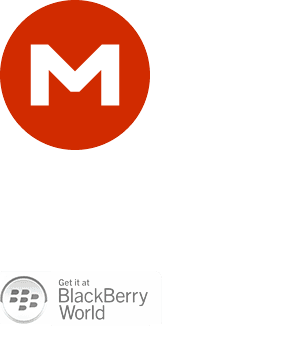
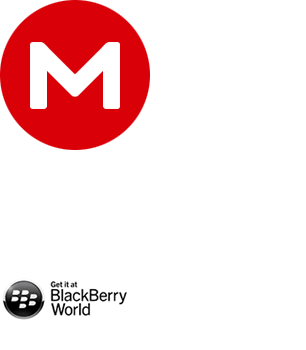
Download page fixes, WP button for mobile

Changed region(s): [[0.0, 0.0, 0.5, 0.4286], [0.0, 0.7714, 0.5, 0.9429]]

diff --git a/css/style.css b/css/style.css
@@ -15267,7 +15267,7 @@ span.browsers-update {
 }
 .m-client-bottom-block {
 	text-align: center;
-	padding: 47px 30px 42px 20px;
+	padding: 32px 30px 47px 20px;
 	line-height: 0;
 	font-size: 0;
 }
@@ -15427,7 +15427,7 @@ span.browsers-update {
 	font-size: 11px;
 	color: #666666;
 	line-height: 14px;
-	padding-top: 7px;
+	padding-top: 5px;
 }
 .blackberry-button {
 	background-position: 22px -1560px;
@@ -18695,6 +18695,16 @@ filter:progid:DXImageTransform.Microsoft.Alpha(opacity=90);
 .password-dialog .fm-dialog-body {
 	padding: 14px 20px 14px 20px;
 }
+.ads-left-block, .ads-right-block {
+	background-color: #d9d8d8;
+	height: 100%;
+	width: 300px;
+	position: absolute;
+	min-height: 620px;
+}
+.ads-right-block {
+	right: 0;
+}
 .products-left-block, .products-right-block {
 	background-color: #d9d8d8;
 	height: 100%;
@@ -18725,22 +18735,26 @@ filter:progid:DXImageTransform.Microsoft.Alpha(opacity=90);
 	line-height: 26px;
 }
 .animations-left-container, .animations-right-container {
-	left: 20px;
 	position: absolute;
 	top: 50%;
-	margin-top: -125px;
+	margin-top: -145px;
+	width: 100%;
+	text-align: center;
+}
+.animations-left-container. currentLink, .animations-right-container .currentLink {
+ display:block;
 }
 .products-bottom-block {
 	height: 130px;
 	width: 100%;
 	position: absolute;
 	bottom: 50px;
-	padding: 30px 30px 0 30px;
+	padding: 32px 28px 0 28px;
 	-moz-box-sizing: border-box;
 	-webkit-box-sizing: border-box;
 	box-sizing: border-box;
 	background-color: #c5c3c3;
-	display: none;
+	display: block;
 }
 .products-bottom-block .sync-bottom-txt {
 	font-size: 11px;
@@ -18759,11 +18773,12 @@ filter:progid:DXImageTransform.Microsoft.Alpha(opacity=90);
 	position: absolute;
 	width: 20px;
 	height: 9px;
-	left: 145px;
+	left: 137px;
 	top: 2px;
 	background-image: url(../images/mega/mobile-sprite-v6.png?v=1);
 	background-position: right -1449px;
 	background-repeat: no-repeat;
+	display: none;
 }
 .products-top-notification {
 	position: absolute;
@@ -18776,6 +18791,10 @@ filter:progid:DXImageTransform.Microsoft.Alpha(opacity=90);
 	-webkit-border-radius: 5px;
 	border-radius: 5px;
 	cursor: pointer;
+	display: none;
+}
+.not-logged .products-top-arrow, .not-logged .products-top-notification {
+	display: block;
 }
 .products-top-white-txt1 {
 	font-size: 30px;
@@ -18829,13 +18848,40 @@ filter:progid:DXImageTransform.Microsoft.Alpha(opacity=90);
 .products-slides-button.active {
 	background-color: white;
 }
-.products-bottom-block .sync-button, .products-bottom-block .chrome-app-button, .products-bottom-block .ios-button, .products-bottom-block .google-play-button {
-	display: inline-block;
+.products-bottom-block .sync-button, .products-bottom-block .chrome-app-button, .products-bottom-block .ios-button, .products-bottom-block .google-play-button, .products-bottom-block .ff-bott-button, .products-bottom-block .win-phone-button {
+	display: block;
 	min-width: 234px;
 	width: auto;
 	border-color: #8d8c8c;
+	position: absolute;
 }
-.products-bottom-block .sync-button:hover, .products-bottom-block .chrome-app-button:hover, .products-bottom-block .ios-button:hover, .products-bottom-block .google-play-button:hover {
+.products-bottom-block .sync-button {
+	position: static;
+}
+.products-bottom-block .win-phone-button {
+	width: 234px;
+}
+.products-bottom-block .win-phone-button:hover {
+	width: 240px;
+}
+.products-bottom-block .ff-bott-button {
+	min-width: 234px;
+	width: 234px;
+	white-space: normal;
+	padding: 8px 15px 0 0;
+}
+.products-bottom-block .ff-bott-button .sync-button-txt {
+	white-space: normal;
+	line-height: 21px;
+}
+.products-bottom-block .sync-button.hidden, .products-bottom-block .chrome-app-button.hidden, .products-bottom-block .ios-button.hidden, .products-bottom-block .google-play-button.hidden, .products-bottom-block .ff-bott-button.hidden, .products-bottom-block .win-phone-button.hidden {
+	display: none;
+}
+.products-bottom-block .ff-bott-button:hover {
+	min-width: 238px;
+	width: 238px;
+}
+.products-bottom-block .sync-button:hover, .products-bottom-block .chrome-app-button:hover, .products-bottom-block .ios-button:hover, .products-bottom-block .google-play-button:hover, .products-bottom-block .ff-bott-button:hover, .products-bottom-block .win-phone-button:hover {
 	border-color: #DB3200;
 	min-width: 240px;
 }
@@ -20887,19 +20933,13 @@ video.localViewport {
 	top: 48%;
 }
 }
-@media only screen and (max-height: 758px) {
-.ads-svg-container {
-	top: 53%;
+@media only screen and (max-height: 730px) {
+.currentLink img {
+	width: auto !important;
+	max-height: 250px;
 }
-.ads-iphone .ads-svg-container {
-	top: 52%;
-}
-.ads-right-bottom-txt {
-	display: none;
-}
-.ads-tablet .ads-svg-container, .ads-ipad .ads-svg-container {
-	height: 230px;
-	top: 51%;
+.animations-left-container, .animations-right-container {
+	margin-top: -120px;
 }
 }
  @media only screen and (-webkit-min-device-pixel-ratio: 1.5), only screen and (-o-min-device-pixel-ratio: 3/2), only screen and (min--moz-device-pixel-ratio: 1.5), only screen and (min-device-pixel-ratio: 1.5) {

diff --git a/html/download.html b/html/download.html
@@ -1,8 +1,8 @@
 <div class="st-main-block">
 	((TOP))
-	<div class="download-mid-white-block logged-in">
+	<div class="download-mid-white-block">
 
-		<div class="products-left-block">
+		<div class="ads-left-block">
 			<div class="products-top-txt">
                 <a class="titleLink" href="#">
                     <strong class="red">[$1626]:</strong> <span class="description">[$1086]</span>
@@ -24,7 +24,7 @@
 			</div>
 		</div>
 
-		<div class="products-right-block">
+		<div class="ads-right-block">
 			<div class="products-top-arrow"></div>
 			<div class="products-top-notification">
 				<div class="products-top-white-txt1">50 GB <span class="red">[$1725]</span> </div>
@@ -43,58 +43,22 @@
                     </a>
                 </div>
 				<div class="products-bottom-block">
-					<a href="https://chrome.google.com/webstore/detail/mega/bigefpfhnfcobdlfbedofhhaibnlghod" class="chrome-app-button new-app" target="_blank">
-						<div class="sync-button-txt small"> [$1916] </div>
-						<div class="sync-button-txt"> [$1917] </div>
+                    <a href="https://mega.co.nz/mega.xpi" class="ff-bott-button button0 hidden">
+                       <span class="sync-button-txt mid">
+                           [$1178]
+                       </span>
+                    </a>
+					<a href="https://chrome.google.com/webstore/detail/mega/bigefpfhnfcobdlfbedofhhaibnlghod" class="chrome-app-button new-app button1 hidden" target="_blank">
+						<span class="sync-button-txt small"> [$1916] </span>
+						<span class="sync-button-txt"> [$1917] </span>
 					</a>
+                    <a href="https://itunes.apple.com/app/mega/id706857885" target="_blank" class="ios-button button2 hidden"></a>
+                    <a href="http://www.windowsphone.com/s?appid=1b70a4ef-8b9c-4058-adca-3b9ac8cc194a5" target="_blank" class="win-phone-button button3 hidden"></a>
+                    <a href="https://play.google.com/store/apps/details?id=com.flyingottersoftware.mega" target="_blank" class="google-play-button button4 hidden"></a>
 				</div>
 				<div class="products-right-bottom-txt"></div>
 			</div>
 
-			<div class="products-slides-block products-iphone hidden" id="products2-slide">
-				<div class="products-top-txt">
-					<strong class="red">[$1080]:</strong> [$1930]
-				</div>
-				<div class="products-svg-container" id="iphone-app"></div>
-				<div  class="products-bottom-block">
-					<a href="https://itunes.apple.com/app/mega/id706857885" target="_blank" class="ios-button"></a>
-				</div>
-				<div class="products-right-bottom-txt"></div>
-			</div>
-
-			<div class="products-slides-block products-tablet hidden" id="products3-slide">
-				<div class="products-top-txt">
-					<strong class="red">[$1060]:</strong> [$1162]
-				</div>
-				<div class="products-svg-container" id="tablet-app"></div>
-				<div  class="products-bottom-block">
-					<a href="https://play.google.com/store/apps/details?id=com.flyingottersoftware.mega" target="_blank" class="google-play-button"></a>
-				</div>
-				<div class="products-right-bottom-txt"></div>
-			</div>
-
-			<div class="products-slides-block products-ipad hidden"  id="products4-slide">
-				<div class="products-top-txt">
-					<strong class="red">[$1062]:</strong> [$1063]
-				</div>
-				<div class="products-svg-container" id="ipad-app"></div>
-				<div  class="products-bottom-block">
-					<a href="https://itunes.apple.com/app/mega/id706857885" target="_blank" class="ios-button"></a>
-				</div>
-				<div class="products-right-bottom-txt"></div>
-			</div>
-
-			<div class="products-slides-block products-phone hidden" id="products5-slide">
-				<div class="products-top-txt">
-					<strong class="red">[$1064]:</strong> [$1065]
-				</div>
-				<div class="products-svg-container" id="phone-app"></div>
-				<div  class="products-bottom-block">
-					<a href="https://play.google.com/store/apps/details?id=com.flyingottersoftware.mega" target="_blank" class="google-play-button"></a>
-				</div>
-				<div class="products-right-bottom-txt">
-				</div>
-			</div>
 
 			<div class="products-slides-buttons">
 				<div class="products-slides-button active" id="products1"></div>

diff --git a/html/js/download.js b/html/js/download.js
@@ -138,6 +138,12 @@ function dl_g(res)
 		else mKeyDialog(dlpage_ph);
 	}
 	else $('.download-mid-centered-block').addClass('not-available-some-reason');
+	
+	var pf = navigator.platform.toUpperCase();
+	if (page.substr(-5) == 'linux') sync_switchOS('linux');	
+	else if (pf.indexOf('MAC')>=0) sync_switchOS('mac');
+	else if (pf.indexOf('LINUX')>=0) sync_switchOS('linux');
+	else sync_switchOS('windows');
 }
 
 function closedlpopup()
@@ -316,6 +322,7 @@ function sync_switchOS(os)
 	}
 	else if (os == 'mac')
 	{
+		
 		syncurl = 'https://mega.co.nz/MEGAsyncSetup.dmg';
 		var ostxt = 'For Mac';
 		if (l[1158].indexOf('Windows') > -1) ostxt = l[1158].replace('Windows','Mac');
@@ -358,6 +365,7 @@ function ImgError(source){
 /**
  * Changes the animated product images on the download page
  */
+	
 var gifSlider = {
     
     // Speed to fade in/out the images and text
@@ -513,13 +521,33 @@ var gifSlider = {
         var slideImgSrc = gifSlider.images[side][slideIndex].image.src;
         var slideLink = gifSlider.images[side][slideIndex].href;
 
+
         // Change the link and fade in the new image
-        $('.products-' + side + '-block .currentLink').attr('href', slideLink);
+        $('.ads-' + side + '-block .currentLink').attr('href', slideLink);
         $('.animations-' + side + '-container .currentLink').attr('href', slideLink);
         $('.animations-' + side + '-container .currentImage').attr('src', slideImgSrc).css({ width: '260px', height: '300px'}).fadeIn(gifSlider.fadeInSpeed);
-
+		
+		
         // Set title and description
-        $('.products-' + side + '-block .products-top-txt .red').html(slideTitle).fadeIn(gifSlider.fadeInSpeed);
-        $('.products-' + side + '-block .products-top-txt .description').text(slideDescription).fadeIn(gifSlider.fadeInSpeed);
+        $('.ads-' + side + '-block .products-top-txt .red').html(slideTitle).fadeIn(gifSlider.fadeInSpeed);
+        $('.ads-' + side + '-block .products-top-txt .description').text(slideDescription).fadeIn(gifSlider.fadeInSpeed);
+		
+		// Applications buttons
+		if(side==='right') {
+		  $('.button0,.button1,.button2,.button3, .button4').fadeOut(gifSlider.fadeInSpeed);
+		  $('.button'+slideIndex).fadeIn(gifSlider.fadeInSpeed).css('display', 'block');
+		  
+		  if (slideIndex==2) {
+			  setTimeout(function() {
+                $('.button2').fadeOut(gifSlider.fadeInSpeed);
+		        $('.button3').fadeIn(gifSlider.fadeInSpeed).css('display', 'block');
+                setTimeout(function() {
+                   $('.button3').fadeOut(gifSlider.fadeInSpeed);
+		           $('.button4').fadeIn(gifSlider.fadeInSpeed).css('display', 'block');
+                }, 5000);
+              }, 5000);
+          }
+		  
+		} 
     }
 };

diff --git a/css/mobile-app.css b/css/mobile-app.css
@@ -382,6 +382,12 @@ span.select-txt {
 }
 .blackberry .main-button, .blackberry.ios .main-button {
 	background-image: url(https://eu.static.mega.co.nz/images/mobile/main-bg-blackberry.png);
+	width: 175px;
+	background-position: 13px -272px;
+}
+.wp .main-button, .wp.ios .main-button {
+	background-image: url(https://eu.static.mega.co.nz/images/mobile/main-bg-wp.png);
+	width: 232px;
 }
 .ios .main-button, .another-os .main-button {
 	background-image: url(https://eu.static.mega.co.nz/images/mobile/main-bg-ios.png);

diff --git a/html/firefox.html b/html/firefox.html
@@ -27,9 +27,9 @@
       <div class="pro-gray-block">
           <div class="main-mid-pad ff-bottom-block">
              <a href="https://mega.co.nz/mega.xpi" class="ff-bott-button">
-                <div class="sync-button-txt mid">
+                <span class="sync-button-txt mid">
                     [$1178]
-                </div>
+                </span>
              </a>
           </div>
       </div>
